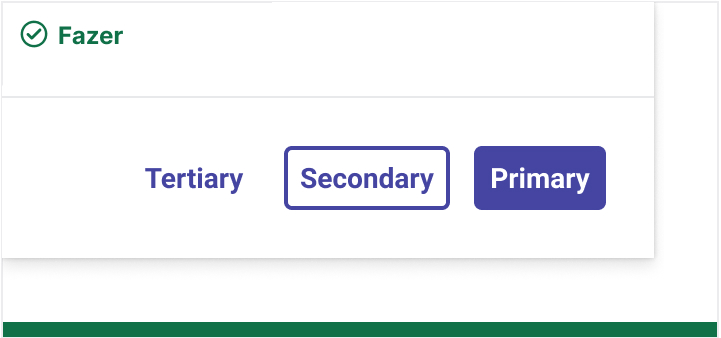
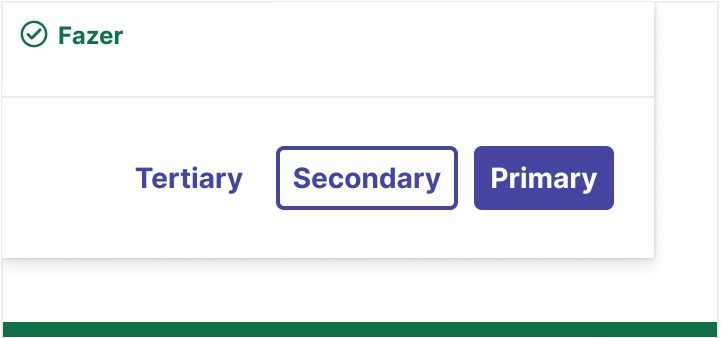
feat(button): altera o tamanho do botão e refatora as propriedades (#28)
* feat(button): melhoria nas propriedades e tamanho

diff --git a/packages/button/src/button.style.ts b/packages/button/src/button.style.ts
@@ -1,124 +1,152 @@
 export const style = `
   button {
-    /* Custom */
     font-family: var(--font-family);
     font-weight: var(--font-weight-bold);
+    line-height: var(--line-height);
     border-radius: var(--border-radius);
+    border-width: var(--border-width);
+    padding: var(--padding);
 
-    /* Fixed */
     letter-spacing: var(--letter-spacing-auto);
     width: inherit;
-  }
-
-  button:focus {
-    outline-color: var(--outline-color-focused);
-
-    outline-width: var(--border-width-lg);
-    outline-style: solid;
-    outline-offset: 2px;
-  }
-
-  button:active:not([disabled]) {
-    color: var(--text-color-pressed, var(--text-color));
-    outline-color: var(--outline-color-focused);
-
-    outline-width: var(--border-width-lg);
-    outline-style: solid;
-    outline-offset: 2px;
+    border-style: solid;
+    min-height: 2.75em;
     cursor: pointer;
   }
 
   button[size='small'], button[size='medium'], button[size='large'] {
     font-size: var(--font-size);
     line-height: var(--line-height);
-    padding: var(--spacing-squish);
+    padding: var(--padding);
+  }
+
+  button[size='small'] {
+    min-height: 2em;
+  }
+  
+  button[size='large'] {
+    min-height: 3.5em;
   }
 
   button[kind='primary'] {
     color: var(--text-color);
-    background-color: var(--background);
+    background-color: var(--color);
     box-shadow: var(--shadow);
 
-    border: var(--border-width) solid transparent;
+    border-color: transparent;
   }
 
   button[kind='primary']:hover {
-    color: var(--text-color-hover, var(--text-color));
-    background-color: var(--background-hover);
-
-    cursor: pointer;
+    color: var(--text-color);
+    background-color: var(--color-hover);
   }
 
   button[kind='primary']:active {
-    background-color: var(--background-pressed);
+    background-color: var(--color-pressed);
   }
 
-  button[kind='primary'][disabled] {
-    /* Custom */
-    color: var(--text-color-disabled);
-    background-color: var(--background-disabled);
 
-    cursor: not-allowed;
+  button:focus, button:enabled:active {
+    outline-color: var(--outline-color-focused);
+
+    outline-width: var(--border-width-lg);
+    outline-style: solid;
+    outline-offset: 2px;
   }
 
   button[kind='secondary'] {
-    color: var(--text-color);
-    border-color: var(--border-color);
-    border-width: var(--border-width);
+    color: var(--color);
+    border-color: var(--color);
 
     background-color: transparent;
-    border-style: solid;
     box-shadow: var(--shadow-none);
   }
 
   button[kind='secondary']:hover {
-    color: var(--text-color-hover, var(--text-color));
     background-color: var(--background-hover);
     border-color: var(--border-color-hover);
-
-    cursor: pointer;
+    color: var(--border-color-hover);
   }
 
-  button[kind='secondary']:active {
+  button[kind='secondary']:enabled:active {
     background-color: var(--background-pressed);
-    border-color: var(--border-color-pressed);
-  }
-
-  button[kind='secondary'][disabled] {
-    /* Custom */
-    color: var(--text-color-disabled);
-    border-color: var(--border-color-disabled);
-
-    background-color: transparent;
-    cursor: not-allowed;
+    border-color: var(--border-color-hover);
+    color: var(--border-color-hover);
   }
 
   button[kind='tertiary'] {
-    color: var(--text-color);
+    color: var(--color);
 
     background-color: transparent;
-    border: none;
+    border-color: transparent;
     box-shadow: var(--shadow-none);
-    border: var(--border-width) solid transparent;
   }
 
   button[kind='tertiary']:hover {
-    color: var(--text-color-hover);
+    color: var(--border-color-hover);
     background-color: var(--background-hover);
-
-    cursor: pointer;
   }
 
-  button[kind='tertiary']:active {
+  button[kind='tertiary']:enabled:active {
     background-color: var(--background-pressed);
+    color: var(--color-pressed);
   }
 
-  button[kind='tertiary'][disabled] {
-    /* Custom */
+  button[kind='primary'][danger="true"] {
+    color: var(--text-color-danger);
+    background-color: var(--color-danger);
+
+    border-color: transparent;
+  }
+  
+  button[kind='primary'][danger="true"]:enabled:hover {
+    background-color: var(--color-danger-hover);
+  }
+  
+  button[kind='primary'][danger="true"]:enabled:active {
+    background-color: var(--color-danger-pressed);
+  }
+
+  button[kind='secondary'][danger="true"] {
+    color: var(--color-danger);
+    border-color: var(--color-danger);
+  }
+  
+  button[kind='secondary'][danger="true"]:enabled:hover {
+    background-color: var(--background-danger-hover);
+    border-color: var(--border-color-danger-hover);
+
+    color: var(--border-color-danger-hover);
+  }
+  
+  button[kind='secondary'][danger="true"]:enabled:active {
+    background-color: var(--background-danger-pressed);
+    border-color: var(--border-color-danger-hover);
+
+    color: var(--border-color-danger-hover);
+  }
+
+
+  button:disabled {
+    cursor: not-allowed; 
+  }
+
+  button[kind='primary']:disabled {
     color: var(--text-color-disabled);
+    background-color: var(--color-disabled);
+  }
+
+  button[kind='secondary']:disabled {
+    color: var(--color-disabled);
+    border-color: var(--color-disabled);
 
     background-color: transparent;
-    cursor: not-allowed;
+  }
+
+  button[kind='tertiary']:disabled {
+    color: var(--color-disabled);
+
+    background-color: transparent;
   }
 
 `;
